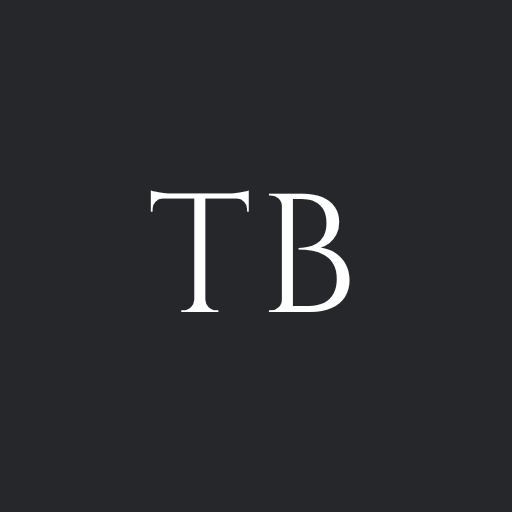
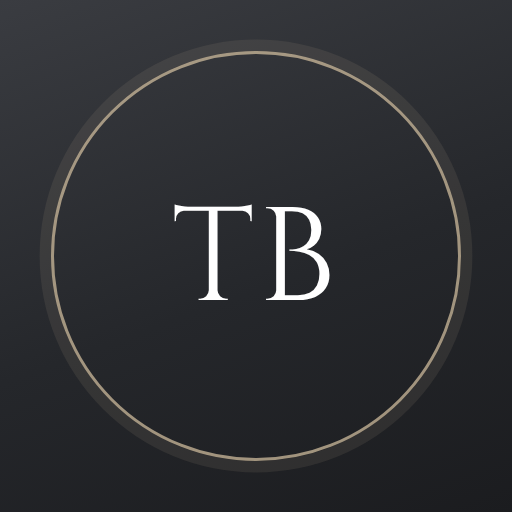
iPhone: своя страница установки в Safari (иконка + инструкция-картинка), новая иконка TB с кольцом
Claude-Session: https://claude.ai/code/session_01RMXbpmim3Eq15MbV4TffcD

diff --git a/index.html b/index.html
@@ -1338,6 +1338,46 @@ input[type=tel]{width:100%;background:var(--soft);border:1px solid transparent;b
 .cft-o svg{width:20px;height:20px;fill:none;stroke:currentColor;stroke-width:1.5;stroke-linejoin:round;stroke-linecap:round}
 .cft-o[hidden]{display:none}
 .cft-n{margin:-6px 0 14px;text-align:center;font:300 12.5px/1.4 Onest,sans-serif;color:#a9acb2}
+/* ===== Установка на iPhone: своя страница в Safari (иконка сверху, инструкция-картинка снизу) ===== */
+.ins{position:fixed;inset:0;z-index:900;background:#fff;overflow-y:auto;font-family:Onest,sans-serif;color:#25272b;padding:calc(var(--st,0px) + 10px) max(16px,env(safe-area-inset-left,0px)) calc(env(safe-area-inset-bottom,0px) + 120px) max(16px,env(safe-area-inset-right,0px))}
+.ins[hidden]{display:none}
+.ins svg{fill:none;stroke:currentColor;stroke-width:1.6;stroke-linejoin:round;stroke-linecap:round}
+.ins-x{position:absolute;top:calc(var(--st,0px) + 10px);right:12px;width:38px;height:38px;border-radius:50%;border:0;background:#f2f3f4;color:#50545b;font:300 22px/1 Onest;display:grid;place-items:center}
+.ins-ph{width:min(200px,54vw);aspect-ratio:1/.8;margin:8px auto 0;border:7px solid #ececec;border-bottom:0;border-radius:34px 34px 0 0;position:relative;padding:26px 11px 0;display:grid;grid-template-columns:repeat(4,1fr);gap:8px;align-content:start;overflow:hidden}
+.ins-ph:before{content:"";position:absolute;top:7px;left:50%;width:30%;height:12px;border-radius:9px;background:#ececec;transform:translateX(-50%)}
+.ins-ph i{aspect-ratio:1;border-radius:22%;background:#ececec}
+.ins-ph img{position:absolute;left:50%;top:50%;width:44%;aspect-ratio:1;border-radius:22%;transform:translate(-50%,-38%);box-shadow:0 8px 22px rgba(0,0,0,.18)}
+.ins h2{margin:16px 0 4px;text-align:center;font:500 20px/1.25 Onest;text-wrap:balance}
+.ins-l{margin:0 0 14px;text-align:center;font:300 14px/1.4 Onest;color:#6b6e74}
+.ins-p{background:#f2f3f4;border-radius:18px;padding:16px 12px 12px;display:grid;grid-template-columns:1fr 1fr;gap:12px;position:relative;pointer-events:none;user-select:none}
+.ins-tag{position:absolute;top:-10px;left:50%;transform:translateX(-50%);background:#fff;border:1px solid #e4e5e8;border-radius:999px;padding:2px 10px;font:400 11px Onest;color:#8a8d93;white-space:nowrap}
+.ins-c{display:flex;flex-direction:column;gap:7px;min-width:0}
+.ins-cap{display:flex;gap:7px;align-items:flex-start;font:400 12.5px/1.3 Onest}
+.ins-cap b{flex:none;width:20px;height:20px;border-radius:50%;background:#25272b;color:#fff;display:grid;place-items:center;font:500 11px Onest}
+.ins-m{height:108px;border-radius:14px;background:#fff;border:1px solid #e4e5e8;position:relative;overflow:hidden}
+.ins-pg{position:absolute;inset:8px 8px auto;height:34px;border-radius:8px;background:#f2f3f4}
+.ins-bar{position:absolute;left:6px;right:6px;bottom:8px;height:28px;display:flex;gap:4px;align-items:center}
+.ins-bb{width:28px;height:28px;border-radius:50%;background:#f2f3f4;display:grid;place-items:center;font:600 10px Onest;flex:none}
+.ins-bb svg{width:14px;height:14px}
+.ins-url{flex:1;height:28px;border-radius:999px;background:#f2f3f4;display:grid;place-items:center;font:500 10px Onest}
+.ins-hl{box-shadow:0 0 0 2.5px #2563eb,0 0 0 7px rgba(37,99,235,.2);background:#fff;color:#2563eb}
+.ins-menu{position:absolute;right:6px;bottom:8px;width:112px;background:#fff;border-radius:12px;box-shadow:0 6px 18px rgba(0,0,0,.16);padding:4px 0;font:400 10px Onest}
+.ins-menu div{display:flex;align-items:center;justify-content:space-between;padding:6px 9px}
+.ins-menu svg,.ins-sh svg{width:12px;height:12px}
+.ins-hi{color:#2563eb!important;font-weight:500;box-shadow:inset 0 0 0 2px #2563eb;border-radius:8px;background:rgba(37,99,235,.08)!important}
+.ins-menu .ins-hi{margin:0 3px}
+.ins-sh{position:absolute;left:0;right:0;bottom:0;height:84px;background:#f6f6f7;border-radius:12px 12px 0 0;padding:8px 6px;font:400 10px Onest}
+.ins-sh .ap{display:flex;gap:6px;margin-bottom:5px}.ins-sh .ap i{width:20px;height:20px;border-radius:7px;background:#e4e5e8}
+.ins-sh .rw{background:#fff;border-radius:8px;padding:6px 8px;display:flex;justify-content:space-between;align-items:center;margin-bottom:4px}
+.ins-ad{position:absolute;inset:0;background:#f6f6f7}
+.ins-ad .tp{display:flex;justify-content:space-between;padding:8px 9px;font:400 10px Onest;color:#2563eb}
+.ins-ad .tp .ins-hi{padding:1px 5px;margin:-1px -5px}
+.ins-ad .cd{margin:6px 9px;background:#fff;border-radius:10px;padding:8px;display:flex;gap:8px;align-items:center;font:400 10.5px Onest}
+.ins-ad img{width:32px;height:32px;border-radius:8px}
+.ins-go{position:fixed;right:max(14px,env(safe-area-inset-right,0px));bottom:calc(env(safe-area-inset-bottom,0px) + 70px);background:#2563eb;color:#fff;border-radius:999px;padding:10px 14px;font:500 14px Onest;display:flex;gap:8px;align-items:center;box-shadow:0 6px 18px rgba(37,99,235,.35);animation:insb 1.4s ease-in-out infinite;pointer-events:none}
+.ins-go:after{content:"";position:absolute;bottom:-6px;right:22px;width:12px;height:12px;background:#2563eb;transform:rotate(45deg);border-radius:2px}
+@keyframes insb{50%{transform:translateY(-6px)}}
+.ins-n{margin:14px 4px 0;text-align:center;font:300 12.5px/1.45 Onest;color:#8a8d93}
 .cft-c{margin-top:20px;text-align:center;font:300 11px Onest,sans-serif;color:#7d8086;letter-spacing:.04em}
 
 /* OPTIX — eyewear, misty blue */
@@ -2302,6 +2342,23 @@ function renderFooter(){const el=$("#cft");if(!el)return;const ok=c=>/^https:\/\
   <button class="cft-o press" id="cftInst" hidden><svg viewBox="0 0 24 24"><rect x="7" y="2.5" width="10" height="19" rx="2.5"/><path d="M12 7v7M9.5 11.5 12 14l2.5-2.5"/></svg><span>Установить на телефон</span></button><div class="cft-n" id="cftNote" hidden></div>
   <div class="cft-g">${rest.map(c=>{const ig=/instagram/.test(c.url);return `<a class="cft-t press" href="${esc(c.url)}" target="_blank" rel="noopener"><span class="cft-i">${ig?CFT_IG:CFT_TG}</span><span>${esc(nm(c))}<small>${ig?"Instagram":"Telegram"}</small></span></a>`}).join("")}</div>
   <div class="cft-c">TREND BÜRO · PERSONAL SHOPPING · 2023</div>`;try{instInit()}catch(x){}}
+/* своя страница установки для iPhone в Safari: ?install=1 (сюда ведёт кнопка из Telegram) */
+const INS_SH='<svg viewBox="0 0 24 24"><path d="M12 15V4M8 8l4-4 4 4M6 11H5v9h14v-9h-1"/></svg>',INS_PL='<svg viewBox="0 0 24 24"><rect x="4" y="4" width="16" height="16" rx="4"/><path d="M12 8v8M8 12h8"/></svg>';
+function instGuide(){if(instStandalone())return;let el=$("#ins");if(!el){el=document.createElement("div");el.id="ins";el.className="ins";document.body.appendChild(el)}
+  const v=+((navigator.userAgent.match(/Version\/(\d+)/)||[])[1]||0),dots=v>=26; /* Safari 26: «Поделиться» спрятано в «•••» */
+  const bar=h=>`<div class="ins-bar"><span class="ins-bb">‹</span><span class="ins-url">trendburo</span><span class="ins-bb${h?" ins-hl":""}">${dots?"•••":INS_SH}</span></div>`;
+  const st=[];
+  st.push(dots?["Три точки «•••» справа внизу",`<div class="ins-pg"></div>${bar(1)}`]:["Кнопка «Поделиться» внизу",`<div class="ins-pg"></div>${bar(1)}`]);
+  if(dots)st.push(["«Поделиться»",`<div class="ins-pg"></div><div class="ins-menu"><div>Новая вкладка</div><div>Закладки</div><div class="ins-hi">Поделиться ${INS_SH}</div></div>`]);
+  st.push(["«На экран „Домой“»",`<div class="ins-pg" style="height:28px"></div><div class="ins-sh"><div class="ap"><i></i><i></i><i></i><i></i></div><div class="rw">Скопировать</div><div class="rw ins-hi">На экран «Домой» ${INS_PL}</div></div>`]);
+  st.push(["«Добавить» вверху справа",`<div class="ins-ad"><div class="tp"><span>Отменить</span><span class="ins-hi">Добавить</span></div><div class="cd"><img src="/icons/icon-192.png" alt="">Trend Büro</div></div>`]);
+  el.innerHTML=`<button class="ins-x" aria-label="Закрыть">×</button>
+  <div class="ins-ph" aria-hidden="true">${"<i></i>".repeat(12)}<img src="/icons/icon-512.png" alt=""></div>
+  <h2>Добавьте Trend Büro на экран «Домой»</h2><p class="ins-l">Нажимайте по очереди внизу Safari — как на картинке</p>
+  <div class="ins-p" aria-label="Подсказка"><span class="ins-tag">это подсказка, на неё нажимать не нужно</span>${st.map((x,i)=>`<div class="ins-c"><div class="ins-cap"><b>${i+1}</b>${x[0]}</div><div class="ins-m">${x[1]}</div></div>`).join("")}</div>
+  <p class="ins-n">Готово — Trend Büro откроется с иконки, без адресной строки</p>
+  <div class="ins-go">Начните здесь ${dots?"•••":INS_SH}</div>`;
+  el.hidden=false;el.querySelector(".ins-x").onclick=()=>{el.hidden=true}}
 /* «Установить на телефон»: в Telegram — системное окно «На экран Домой», на Android — окно «Установить», в Safari — переход в Telegram */
 let INST_EV=null;window.addEventListener("beforeinstallprompt",e=>{e.preventDefault();INST_EV=e;try{instUpd()}catch(x){}});
 window.addEventListener("appinstalled",()=>{INST_EV=null;try{instUpd()}catch(x){}});
@@ -2315,13 +2372,14 @@ function instUpd(){const b=$("#cftInst"),n=$("#cftNote");if(!b)return;n.hidden=t
   b.hidden=!(w||INST_EV||instIOS())}
 function instInit(){const w=instTG();if(w&&w.checkHomeScreenStatus){try{w.checkHomeScreenStatus(st=>{INST_ADDED=st==="added";instUpd()})}catch(x){}
   try{w.onEvent("homeScreenAdded",()=>{INST_ADDED=true;instUpd()})}catch(x){}}
-  if(!w&&instIOS()&&!INST_BOT)fetch("/api/me").then(r=>r.json()).then(j=>{INST_BOT=j&&j.bot||null}).catch(()=>{});instUpd()}
+  instUpd()}
 async function instGo(){const w=instTG(),n=$("#cftNote");
+  if(w&&/^ios/.test(w.platform||"")){const u=location.origin+"/?install=1";try{w.openLink(u,{try_browser:"safari"})}catch(x){try{w.openLink(u)}catch(y){}}return}
   if(w){try{w.addToHomeScreen()}catch(x){}return}
   if(INST_EV){INST_EV.prompt();try{await INST_EV.userChoice}catch(x){}INST_EV=null;instUpd();return}
-  if(instIOS()){if(INST_BOT){location.href="https://t.me/"+encodeURIComponent(INST_BOT)+"?startapp=home";return}
-    n.textContent="Откройте Trend Büro через нашего бота в Telegram — там установка в одно касание";n.hidden=false}}
+  if(instIOS()){instGuide();return}}
 document.addEventListener("click",e=>{if(e.target.closest("#cftInst")){e.preventDefault();instGo()}});
+try{if(/[?&]install=1\b/.test(location.search)&&!instStandalone())(document.readyState==="loading"?addEventListener("DOMContentLoaded",()=>setTimeout(instGuide,300)):setTimeout(instGuide,300))}catch(x){}
 const contactsHTML=()=>CONTACTS.map(c=>`<a class="crow" href="${c.url}" target="_blank" rel="noopener"><span>${esc(c.label)}</span><b>${esc(c.handle)}</b></a>`).join("");
 const plural=(n,a)=>n%10===1&&n%100!==11?a[0]:[2,3,4].includes(n%10)&&![12,13,14].includes(n%100)?a[1]:a[2];
 
